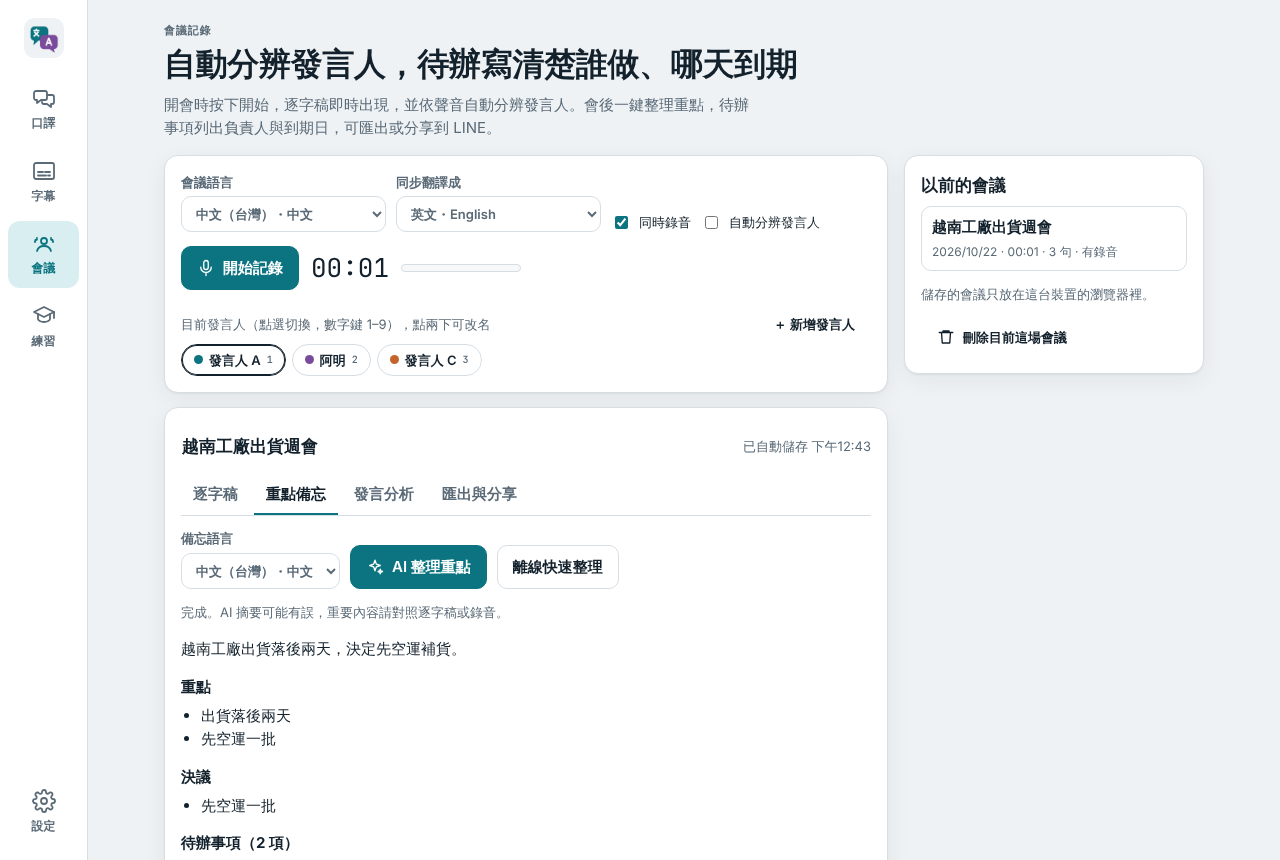
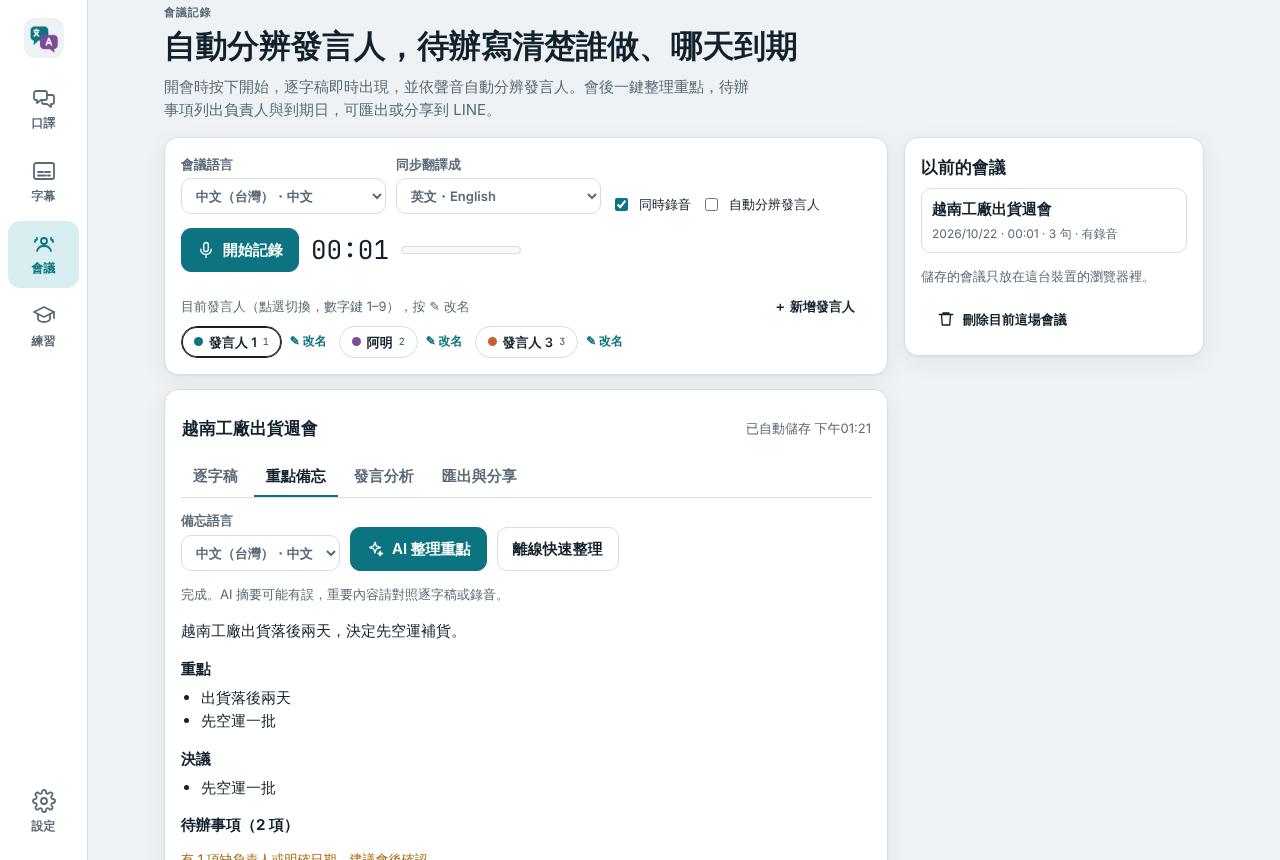
Number automatic speakers and make renaming obvious
Speakers found by voice are labelled 發言人 1, 2, 3 instead of letters.
Each speaker chip has a visible rename button, and the speaker tab lists
every speaker with a sample line for renaming after the meeting. The
empty speaker area explains what will appear once recording starts.

Claude-Session: https://claude.ai/code/session_012EXtAZ1dC1TjSETLWfRNDE

diff --git a/js/views/meet.js b/js/views/meet.js
@@ -32,7 +32,8 @@ let fx = null;           // FeatureExtractor
 let frames = [];         // frames since the previous recognized phrase
 let diarizer = null;     // OnlineDiarizer
 const autoSpeakers = () => settings.get('meetAutoSpeaker') !== false;
-const letterName = (i) => `發言人 ${String.fromCharCode(65 + i)}`;
+const numberName = (i) => `發言人 ${i + 1}`;
+const AUTO_LABEL = /^發言人 ([A-Z]|\d+)$/;
 
 export const meetingBusy = () => running;
 
@@ -45,7 +46,7 @@ function blank() {
     durationMs: 0,
     lang: settings.get('meetLang'),
     trLang: settings.get('meetTranslate'),
-    speakers: autoSpeakers() ? [] : ['發言人 A', '發言人 B', '發言人 C'],
+    speakers: autoSpeakers() ? [] : ['發言人 1', '發言人 2', '發言人 3'],
     segments: [],
     notes: null,
     audio: null,
@@ -242,7 +243,7 @@ function stopVoiceTap() {
 const round = (v) => v.map((x) => Math.round(x * 1000) / 1000);
 
 function ensureSpeaker(i) {
-  while (cur.speakers.length <= i) cur.speakers.push(letterName(cur.speakers.length));
+  while (cur.speakers.length <= i) cur.speakers.push(numberName(cur.speakers.length));
   return cur.speakers[i];
 }
 
@@ -312,9 +313,9 @@ function recluster(report) {
   for (const cl of votes.keys()) {
     if (nameOf.has(cl)) continue;
     let k = 0;
-    while (used.has(letterName(k))) k++;
-    nameOf.set(cl, letterName(k));
-    used.add(letterName(k));
+    while (used.has(numberName(k))) k++;
+    nameOf.set(cl, numberName(k));
+    used.add(numberName(k));
   }
   let changed = 0;
   cur.segments.forEach((x, i) => {
@@ -337,8 +338,9 @@ function recluster(report) {
 }
 
 function addSpeaker() {
-  const letter = String.fromCharCode(65 + cur.speakers.length);
-  cur.speakers.push(`發言人 ${letter}`);
+  let k = cur.speakers.length;
+  while (cur.speakers.includes(numberName(k))) k++;
+  cur.speakers.push(numberName(k));
   speakerIdx = cur.speakers.length - 1;
   renderSpeakers();
   queueSave();
@@ -424,9 +426,16 @@ function colorOf(name) {
 function renderSpeakers() {
   const box = $('#meet-speakers');
   box.textContent = '';
+  $('#meet-add-speaker').hidden = autoSpeakers();
+  if (!cur.speakers.length) {
+    box.append(h('span', { class: 'small muted' }, autoSpeakers()
+      ? '開始記錄後，App 會依聲音自動標出「發言人 1、2、3…」，再按 ✎ 改成真名。'
+      : '按「＋ 新增發言人」加入與會者。'));
+  }
   cur.speakers.forEach((name, i) => {
-    const chip = h('button', { class: 'chip', 'aria-pressed': String(i === speakerIdx), title: '點兩下可改名' },
-      h('span', { class: 'dot', style: `background:${COLORS[i % COLORS.length]}` }), name, i < 9 ? h('kbd', {}, String(i + 1)) : null);
+    const chip = h('button', { class: 'chip', 'aria-pressed': String(i === speakerIdx),
+      title: autoSpeakers() ? '點一下：把最新一句改成這個人' : '點一下：切換目前發言人' },
+      h('span', { class: 'dot', style: `background:${COLORS[i % COLORS.length]}` }), name, !autoSpeakers() && i < 9 ? h('kbd', {}, String(i + 1)) : null);
     chip.addEventListener('click', () => {
       speakerIdx = i;
       // In automatic mode a click corrects the newest line instead.
@@ -436,14 +445,39 @@ function renderSpeakers() {
       renderTranscript();
     });
     chip.addEventListener('dblclick', () => renameSpeaker(i));
-    box.append(chip);
+    const edit = h('button', { class: 'chip-edit', title: `把「${name}」改名`, 'aria-label': `把${name}改名` }, '✎ 改名');
+    edit.addEventListener('click', () => renameSpeaker(i));
+    box.append(h('span', { class: 'chip-group' }, chip, edit));
+  });
+}
+
+// 發言分析 tab: one row per speaker to rename after the meeting.
+function renderRenameList() {
+  const box = $('#meet-rename');
+  box.textContent = '';
+  if (!cur.speakers.length) return;
+  box.append(h('h3', {}, '幫發言人改名'));
+  cur.speakers.forEach((name, i) => {
+    const sample = cur.segments.find((x) => x.speaker === name);
+    const input = h('input', { type: 'text', value: name, 'aria-label': `${name} 的名字`, id: `rename-${i}` });
+    input.addEventListener('change', () => {
+      const v = input.value.trim();
+      if (!v || v === name || cur.speakers.includes(v)) { input.value = name; return; }
+      renameEverywhere(name, v);
+      queueSave();
+      renderAll();
+      showTab('speakers');
+    });
+    box.append(h('div', { class: 'rename-row' },
+      h('span', { class: 'dot', style: `background:${COLORS[i % COLORS.length]}` }), input,
+      sample ? h('span', { class: 'small muted' }, `例：「${sample.text.slice(0, 40)}${sample.text.length > 40 ? '…' : ''}」`) : null));
   });
 }
 
 function renderSpeakerHint() {
   $('#meet-spk-hint').textContent = autoSpeakers()
-    ? '自動分辨中：每一句會依聲音分給不同發言人。認錯時點發言人即可更正最新一句，點兩下可改名。'
-    : '目前發言人（點選切換，數字鍵 1–9），點兩下可改名';
+    ? '發言人（依聲音自動標記）：按 ✎ 改成真名；認錯人時點發言人，就會把最新一句改成他。'
+    : '目前發言人（點選切換，數字鍵 1–9），按 ✎ 改名';
 }
 
 function setSegmentSpeaker(seg, name) {
@@ -461,6 +495,7 @@ function setSegmentSpeaker(seg, name) {
 function renameSpeaker(i) {
   const old = cur.speakers[i];
   const chip = $('#meet-speakers').children[i];
+  if (!chip) return;
   const input = h('input', { type: 'text', value: old, 'aria-label': '發言人名稱', style: 'width:110px;padding:4px 8px' });
   chip.replaceWith(input);
   input.focus();
@@ -468,12 +503,13 @@ function renameSpeaker(i) {
   const done = () => {
     const v = input.value.trim();
     if (v && v !== old && !cur.speakers.includes(v)) {
-      cur.speakers[i] = v;
       renameEverywhere(old, v);
       queueSave();
     }
     renderSpeakers();
     renderTranscript();
+    renderBars();
+    renderNotes();
   };
   input.addEventListener('blur', done);
   input.addEventListener('keydown', (e) => { if (e.key === 'Enter') input.blur(); if (e.key === 'Escape') { input.value = old; input.blur(); } });
@@ -574,6 +610,7 @@ function renderNotes() {
 }
 
 function renderBars() {
+  renderRenameList();
   const box = $('#meet-bars');
   box.textContent = '';
   const stats = speakerStats(cur.segments);
@@ -639,13 +676,13 @@ async function summarize() {
   }
 }
 
-// Replace automatic labels ("發言人 A") with names people said in the meeting.
+// Replace automatic labels ("發言人 1") with names people said in the meeting.
 function applyNames(list) {
   const done = [];
   for (const x of list) {
     const name = (x.name || '').trim();
     const label = x.speaker;
-    if (!name || !/^發言人 [A-Z]$/.test(label)) continue;
+    if (!name || !AUTO_LABEL.test(label)) continue;
     if (!cur.speakers.includes(label) && cur.speakers.includes(name)) {
       // Already renamed earlier: point this run's owners at the name too.
       (cur.notes.actionItems || []).forEach((a) => { if (a.owner === label) a.owner = name; });

diff --git a/index.html b/index.html
@@ -213,6 +213,7 @@
               <div id="meet-notes"></div>
             </div>
             <div data-mpanel="speakers" hidden>
+              <div class="rename" id="meet-rename"></div>
               <div class="bars" id="meet-bars"></div>
               <div class="row" style="margin-top:14px">
                 <button class="btn" id="meet-recluster"><svg><use href="#i-meet"/></svg>依聲音重新分析發言人</button>
@@ -223,7 +224,7 @@
                 <span class="small muted" id="diarize-status"></span>
               </div>
               <div id="meet-speaker-notes" style="margin-top:12px"></div>
-              <p class="small muted">開會時 App 會比對每句話的音色與音高，自動分給不同發言人；會議結束時會用整場資料再分析一次。聲音很像的兩個人可能被併成同一位，請在逐字稿改正，手動改過的句子不會被重新分析覆蓋。整理重點時，AI 會從自我介紹或稱呼找出真名，自動替換「發言人 A」。</p>
+              <p class="small muted">開會時 App 會比對每句話的音色與音高，自動分給不同發言人；會議結束時會用整場資料再分析一次。聲音很像的兩個人可能被併成同一位，請在逐字稿改正，手動改過的句子不會被重新分析覆蓋。整理重點時，AI 會從自我介紹或稱呼找出真名，自動替換「發言人 1」。</p>
             </div>
             <div data-mpanel="export" hidden class="stack">
               <audio id="meet-audio" controls hidden></audio>

diff --git a/css/app.css b/css/app.css
@@ -291,3 +291,13 @@ table.actions td.due { white-space: nowrap; font-variant-numeric: tabular-nums; 
 .owners { display: grid; grid-template-columns: repeat(auto-fill, minmax(220px, 1fr)); gap: 10px; }
 .owner-card { border: 1px solid var(--line); border-radius: 10px; padding: 10px 12px; min-width: 0; }
 .owner-card ul { margin: 6px 0 0; padding-left: 18px; }
+
+/* Speaker chips with rename */
+.chip-group { display: inline-flex; align-items: center; gap: 2px; }
+.chip-edit { border: 0; background: none; color: var(--accent); font-size: 12px; font-weight: 700; cursor: pointer; padding: 4px 6px; border-radius: 6px; white-space: nowrap; }
+.chip-edit:hover { background: var(--accent-soft); }
+.rename { display: grid; gap: 8px; margin-bottom: 16px; }
+.rename-row { display: grid; grid-template-columns: 12px minmax(0, 160px) minmax(0, 1fr); gap: 10px; align-items: center; }
+.rename-row .dot { width: 10px; height: 10px; border-radius: 50%; }
+.rename-row input { width: 100%; }
+@media (max-width: 720px) { .rename-row { grid-template-columns: 12px minmax(0, 1fr); } .rename-row .muted { grid-column: 2; } }

diff --git a/js/ai.js b/js/ai.js
@@ -234,7 +234,7 @@ export async function aiMinutes(transcript, { outLang = 'zh-TW', meetingDay = ''
   return ask({
     system: 'You write accurate meeting minutes from speech-to-text transcripts. Transcripts contain '
       + 'recognition errors; infer the intended words from context but never invent facts, owners or dates. '
-      + 'Speaker labels such as "發言人 A" come from automatic voice grouping and may be imperfect.',
+      + 'Speaker labels such as "發言人 1" come from automatic voice grouping and may be imperfect.',
     messages: [{
       role: 'user',
       content: `Meeting date: ${meetingDay}. Write the minutes in ${LANG_NAMES[outLang] || outLang}.\n\n`

diff --git a/sw.js b/sw.js
@@ -1,6 +1,6 @@
 // Offline cache for the app shell. Translation and speech recognition still
 // need a network connection; the app opens and shows saved meetings offline.
-const VERSION = 'talkbridge-v1.1.0';
+const VERSION = 'talkbridge-v1.1.1';
 const SHELL = [
   './', 'index.html', 'manifest.webmanifest', 'css/app.css',
   'js/app.js', 'js/ai.js', 'js/diarize.js', 'js/duedate.js', 'js/langs.js', 'js/practice-data.js', 'js/speech.js', 'js/store.js',

diff --git a/README.zh-TW.md b/README.zh-TW.md
@@ -55,8 +55,8 @@ python3 -m http.server 8080      # 開啟 http://localhost:8080
 | 22 種語言 | 中文（台灣／簡體／粵語）、英文、越南文、泰文、日文、韓文、印尼文、馬來文、菲律賓文、高棉文、緬甸文、印地文、西班牙文、法文、德文、義大利文、葡萄牙文、俄文、阿拉伯文、土耳其文 |
 | 字幕模式 | 電視字幕風格的大字翻譯，上方小字顯示原文。說話中的字每 0.7 秒翻譯一次，字幕跟得上講者。可全螢幕、調整字級、置頂，匯出 `.srt` |
 | 會議記錄 | 即時逐字稿與時間碼、同步翻譯（例如中翻英）、錄音與音量表、暫停／繼續、自動存在裝置 |
-| 自動分辨發言人 | 每一句話都會從麥克風聲音算出「聲紋特徵」（音色與音高），和相似的句子歸在一起，自動標成發言人 A、B、C…，不用手動點。會議結束時用整場資料再分析一次。點發言人可更正最新一句，更正會讓之後的判斷跟著學，手動改過的句子不會被覆蓋。仍可切回手動模式（數字鍵 **1–9**） |
-| 重點與待辦 | AI 會議記錄：摘要、重點、決議、待確認問題、每位發言人的角色與英文摘要。每個待辦都列出負責人、換算成實際日期的期限（「下週五」→ 10/30（五），並保留原話）、優先順序與出處；沒講到負責人或期限的用紅字標示。另附「依負責人」清單。會議中說出的真名（「我是王經理」）會自動取代「發言人 A」。沒有金鑰時，離線整理也會找出可能的待辦、負責人與日期 |
+| 自動分辨發言人 | 每一句話都會從麥克風聲音算出「聲紋特徵」（音色與音高），和相似的句子歸在一起，自動標成發言人 1、2、3…，不用手動點，再按 ✎ 改成真名。會議結束時用整場資料再分析一次。點發言人可更正最新一句，更正會讓之後的判斷跟著學，手動改過的句子不會被覆蓋。仍可切回手動模式（數字鍵 **1–9**） |
+| 重點與待辦 | AI 會議記錄：摘要、重點、決議、待確認問題、每位發言人的角色與英文摘要。每個待辦都列出負責人、換算成實際日期的期限（「下週五」→ 10/30（五），並保留原話）、優先順序與出處；沒講到負責人或期限的用紅字標示。另附「依負責人」清單。會議中說出的真名（「我是王經理」）會自動取代「發言人 1」。沒有金鑰時，離線整理也會找出可能的待辦、負責人與日期 |
 | AI 服務 | DeepSeek（預設 `deepseek-chat`）、OpenAI（預設 `gpt-4.1-mini`，嚴格 JSON 結構）或 Claude（預設 Opus 5.5，官方 SDK）。金鑰只存在這個瀏覽器 |
 | 匯出與分享 | `.txt` 逐字稿、`.md` 會議記錄、`.srt` 字幕、`.json`、原始錄音檔。手機按「分享檔案」會開啟系統分享選單，可直接傳到 LINE；「用 LINE 傳送重點」傳送摘要文字 |
 | 語言練習 | 8 個情境 × 6 句（商務會議、談判報價、電話視訊、工廠採購、商務餐敘、交通飯店、購物殺價、自我介紹），英文、越南文、泰文由人工撰寫，泰文附拼音與男／女口吻切換；日文、韓文、印尼文即時產生 |
@@ -74,6 +74,8 @@ python3 -m http.server 8080      # 開啟 http://localhost:8080
 | <img src="docs/media/talk.png" alt="雙向口譯" width="420"> | <img src="docs/media/subtitles.png" alt="翻譯字幕" width="420"> |
 | **會議記錄** | **語言練習** |
 | <img src="docs/media/meeting.png" alt="會議記錄" width="420"> | <img src="docs/media/practice.png" alt="情境跟讀" width="420"> |
+
+<p align="center"><img src="docs/media/speakers.png" alt="依聲音自動標出發言人，按 ✎ 改名" width="640"></p>
 
 <p align="center"><img src="docs/media/action-items.png" alt="待辦事項：負責人、期限、優先，缺漏以紅字標示" width="640"></p>
 

diff --git a/README.md b/README.md
@@ -55,7 +55,7 @@ The included GitHub Actions workflow publishes the app to GitHub Pages on every 
 | 22 languages | Chinese (Taiwan / Simplified / Cantonese), English, Vietnamese, Thai, Japanese, Korean, Indonesian, Malay, Filipino, Khmer, Burmese, Hindi, Spanish, French, German, Italian, Portuguese, Russian, Arabic, Turkish |
 | Subtitle mode | Large broadcast-style captions with the original line above. Interim words are translated every 0.7 s so captions keep up with the speaker. Full-screen, font size, top/bottom position, `.srt` export |
 | Meeting minutes | Live transcript with timestamps, optional parallel translation (e.g. Chinese → English), audio recording with a level meter, pause/resume, autosave to the device |
-| Automatic speakers | Each recognized phrase gets a voice fingerprint (timbre and pitch) from the microphone audio and is grouped with similar phrases, so lines are labelled 發言人 A, B, C… without tapping anything. When the meeting ends the whole meeting is grouped again. Tap a speaker to correct the newest line; corrections teach the grouping and are never overwritten. Manual mode (keys **1–9**) is still available |
+| Automatic speakers | Each recognized phrase gets a voice fingerprint (timbre and pitch) from the microphone audio and is grouped with similar phrases, so lines are labelled 發言人 1, 2, 3… without tapping anything; tap ✎ next to a speaker (or use the list on the speaker tab) to give them a real name. When the meeting ends the whole meeting is grouped again. Tap a speaker to correct the newest line; corrections teach the grouping and are never overwritten. Manual mode (keys **1–9**) is still available |
 | Minutes and action items | AI minutes: summary, key points, decisions, open questions, per-speaker roles and an English summary. Every action item has an owner, a due date resolved to the calendar ("下週五" → 10/30 Fri) with the original words, a priority and the source line; missing owners or dates are flagged in red. A second list groups tasks by owner. Real names said in the meeting ("我是王經理") replace the automatic labels. Offline mode finds likely tasks, owners and dates without AI |
 | AI providers | DeepSeek (default, `deepseek-chat`), OpenAI (`gpt-4.1-mini` by default, strict JSON schema) or Claude (Opus 5.5 by default through the official SDK). Each key is stored only in this browser |
 | Export and share | `.txt` transcript, `.md` minutes, `.srt` subtitles, `.json`, original audio. **Share** opens the phone's share sheet so LINE receives the files; **LINE** button sends the summary text |
@@ -74,6 +74,8 @@ A single microphone cannot tell voices apart, so speaker labels come from you. T
 | <img src="docs/media/talk.png" alt="Two-way interpreter" width="420"> | <img src="docs/media/subtitles.png" alt="Translated subtitles" width="420"> |
 | **Meeting minutes** | **Practice** |
 | <img src="docs/media/meeting.png" alt="Meeting minutes" width="420"> | <img src="docs/media/practice.png" alt="Phrase practice" width="420"> |
+
+<p align="center"><img src="docs/media/speakers.png" alt="Speakers detected by voice, renamed with ✎" width="640"></p>
 
 <p align="center"><img src="docs/media/action-items.png" alt="Action items: owner, due date, priority, missing items flagged" width="640"></p>
 

diff --git a/docs/USER_GUIDE.zh-TW.md b/docs/USER_GUIDE.zh-TW.md
@@ -52,17 +52,18 @@ macOS：安裝 BlackHole，在「音訊 MIDI 設定」建立包含喇叭和 Blac
 
 1. 選「會議語言」，需要時選「同步翻譯成」（例如英文，就會每句中翻英）。
 2. 勾選「同時錄音」可保留原始錄音檔。
-3. 「自動分辨發言人」預設開啟：每一句話會依聲音（音色、音高）自動分給發言人 A、B、C…，不用手動點。
+3. 「自動分辨發言人」預設開啟：每一句話會依聲音（音色、音高）自動分給發言人 1、2、3…，不用手動點。
 4. 按「開始記錄」。上方計時器與音量表顯示收音狀態。
-5. 認錯人時：點上方的發言人按鈕，就會把「最新一句」改成那個人；之後的句子會跟著學。點兩下發言人可以改名（例如「王經理」）。
-6. 想自己標記時，取消「自動分辨發言人」，改用點選或鍵盤數字 **1–9** 切換目前說話的人。
-7. 可以「暫停」，結束時按「結束並儲存」。結束時 App 會用整場的聲音資料再分析一次發言人，比開會中更準。會議會自動存在這台裝置。
+5. **改成真名**：每位發言人旁邊有「✎ 改名」，按下去輸入名字（例如「王經理」）按 Enter，逐字稿和待辦裡的名字會一起換掉。會後也可以到「發言分析」頁，一次把所有發言人改名，每一列都附一句他說過的話方便辨認。
+6. **認錯人時**：點上方的發言人按鈕，就會把「最新一句」改成那個人；之後的句子會跟著學。也可以在逐字稿每句前面的下拉選單直接改。
+7. 想自己標記時，取消「自動分辨發言人」，改用點選或鍵盤數字 **1–9** 切換目前說話的人。
+8. 可以「暫停」，結束時按「結束並儲存」。結束時 App 會用整場的聲音資料再分析一次發言人，比開會中更準。會議會自動存在這台裝置。
 
 **讓自動分辨更準的小技巧**
 
 - 把手機或筆電放在桌子中間，讓每個人離麥克風差不多遠。
 - 一次一個人說話；多人同時說話時，那一句只會分給其中一位。
-- 會議開始時請每個人簡短自我介紹（「我是業務部的王經理」），App 能更快分出不同的人，AI 整理時也會把「發言人 A」自動換成真名。
+- 會議開始時請每個人簡短自我介紹（「我是業務部的王經理」），App 能更快分出不同的人，AI 整理時也會把「發言人 1」自動換成真名。
 - 聲音很像的兩個人可能被併成同一位。在逐字稿改正幾句後，到「發言分析」按「依聲音重新分析發言人」。手動改過的句子不會被覆蓋。
 
 **會後**

diff --git a/CHANGELOG.md b/CHANGELOG.md
@@ -1,12 +1,17 @@
 # Changelog
 
+## 2026-10-22 · 1.1.1
+
+- Automatic speakers are numbered 發言人 1, 2, 3…; each has a visible ✎ rename button, and the speaker tab lists every speaker with a sample line for renaming after the meeting. Before recording, the speaker area explains what will appear.
+- 自動辨識的發言人改為「發言人 1、2、3…」；每位旁邊有「✎ 改名」，「發言分析」頁可一次改名並附例句。開始前顯示說明。
+
 ## 2026-10-22 · 1.1.0
 
 - Automatic speaker separation: each recognized phrase gets a voice fingerprint (MFCC timbre averages and median pitch) from the microphone audio, grouped online during the meeting and re-grouped for the whole meeting when it ends. Tapping a speaker corrects the newest line and teaches the grouping; hand-corrected lines are never overwritten. Manual labelling stays available. Tested with a real-audio browser test of three synthetic voices.
 - 自動分辨發言人：每句話依音色與音高自動分組，開會中即時判斷，結束時用整場資料重新分析；點發言人可更正最新一句，手動改過的句子不會被覆蓋。仍可切回手動標記。
 
 - Action items now carry owner (stated / inferred / none), a calendar due date resolved from the meeting date ("下週五" → 10/30（五）) with the original words, priority and the source line. Missing owners or dates are flagged; tasks are also grouped by owner in the app, Markdown and LINE text. Real names said in the meeting replace the automatic speaker labels.
-- 待辦事項列出負責人、換算成實際日期的期限（保留原話）、優先順序與出處；缺負責人或期限以紅字提示，並依負責人整理。會議中說出的真名會自動取代「發言人 A」。
+- 待辦事項列出負責人、換算成實際日期的期限（保留原話）、優先順序與出處；缺負責人或期限以紅字提示，並依負責人整理。會議中說出的真名會自動取代「發言人 1」。
 
 - Offline notes parse deadlines (今天/明天/下週X/月底/X月X日/X號/by Friday…) and named owners ("請小王…", "Amy 負責…").
 - 離線整理也能抓出日期與負責人。
